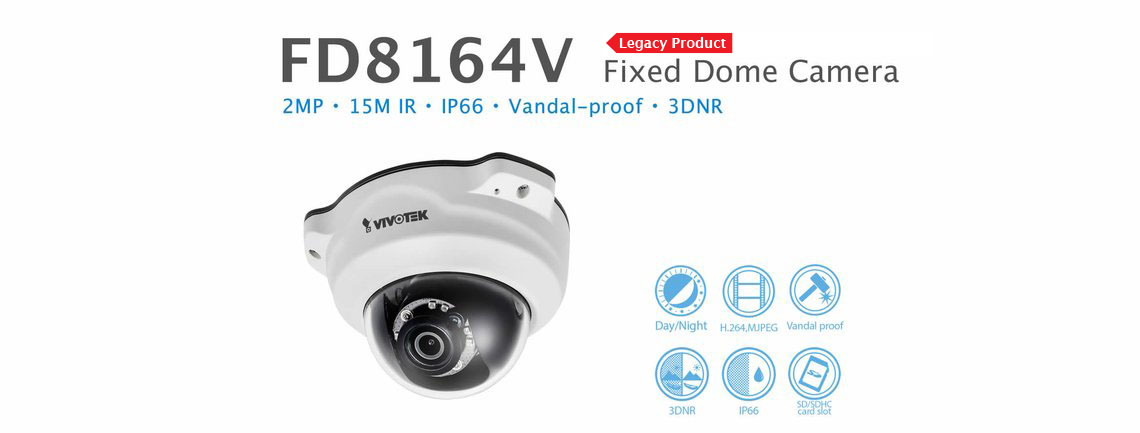
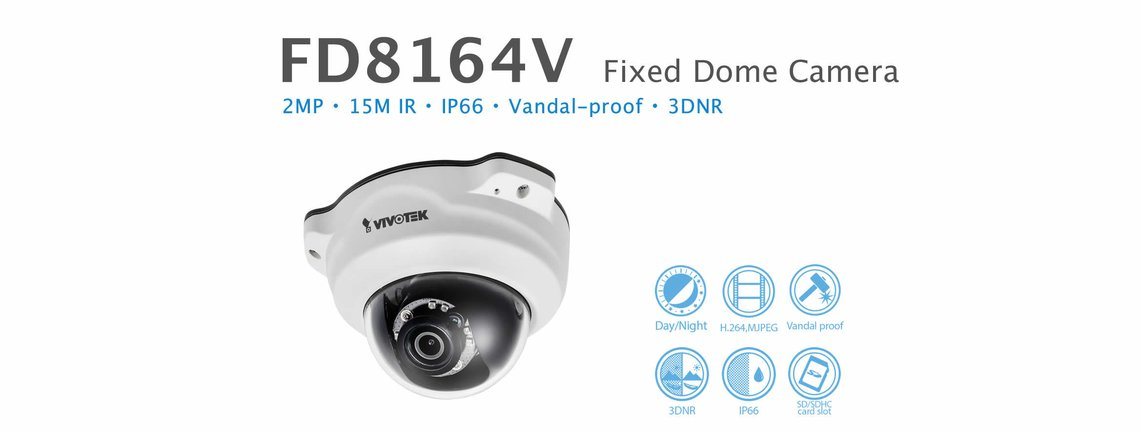
Removes FD8164V from legacy

Changed region(s): [[0.5219, 0.06, 0.6447, 0.1201]]

diff --git a/fd8164v/index.html b/fd8164v/index.html
@@ -214,7 +214,7 @@ to improve your experience.
         <div class="col-md-1"></div>
         <div class="col-md-10">
 
-          <h4 id="eos" class="red_5"><strong>This model is discontinued. The recommended replacement is <a href="fd8369a-v/" target="_blank" class="red_5"><u><span>FD8369A-V</span></u></a>.</strong></h4>
+          <!-- <h4 id="eos" class="red_5"><strong>This model is discontinued. The recommended replacement is <a href="fd8369a-v/" target="_blank" class="red_5"><u><span>FD8369A-V</span></u></a>.</strong></h4> -->
 
           <h3>Overview</h3>
           <p class="t84">VIVOTEK FD8164V is an easy-to-use fixed dome network camera specifically designed for indoor/outdoor security applications with a compact, stylish vandal-proof exterior. Equipped with a 2MP sensor enabling viewing resolution of 1920x1080 at a smooth 30 fps, the FD8164V is an all-in-one outdoor camera capable of capturing high quality and high resolution video up to 2 Megapixel.</p>

diff --git a/legacy-products/index.html b/legacy-products/index.html
@@ -2531,7 +2531,7 @@
       </div>
 
       <!-- FD8164V -->
-      <div class="list-item box">
+      <!-- <div class="list-item box">
        <div class="img"><a href="fd8164v/" target="_blank"><img src="image/all/icon_products/fd8164v.png" alt="FD8164V" style="border: solid 10px rgba(255,243,225,1); border: solid 10px rgba(255,255,255,1);"></a></div>
         <div class="block block_t84">
          <a href="fd8164v/" target="_blank">
@@ -2543,7 +2543,7 @@
          </p>         
         </div>
         <div class="div_clear_18"></div>
-      </div>
+      </div> -->
 
       <!-- FD8165H -->
       <div class="list-item box">
